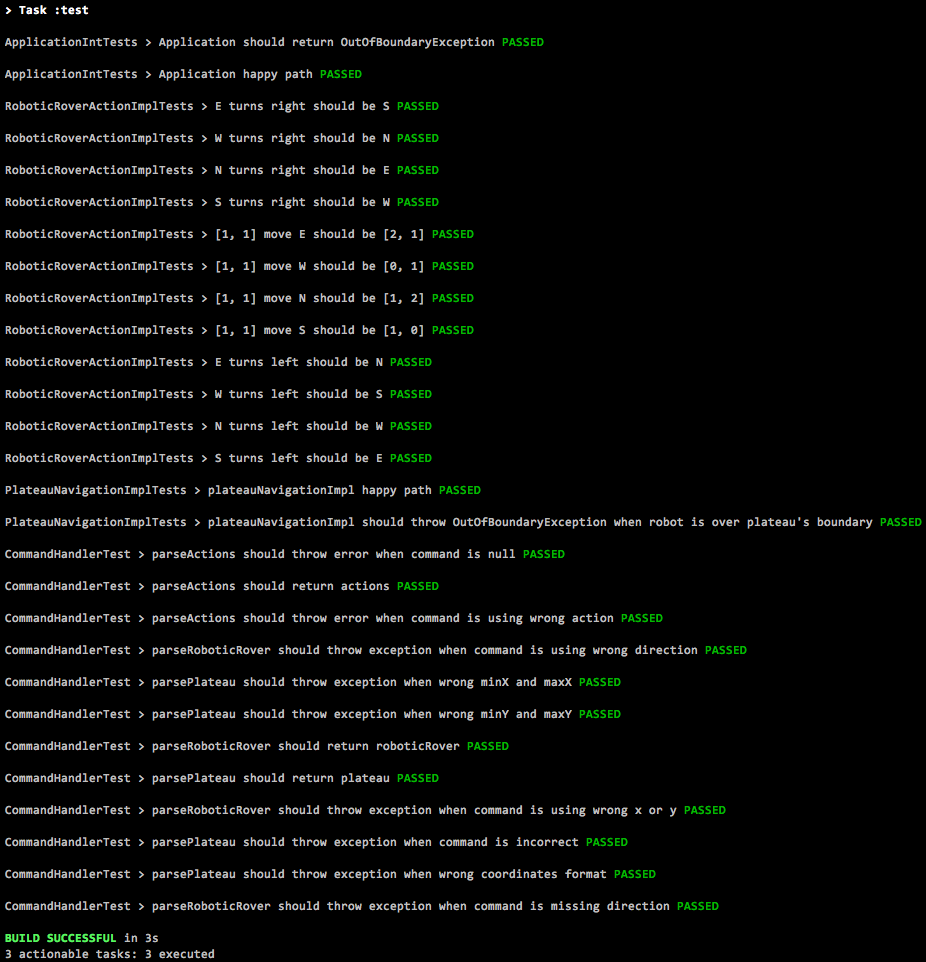
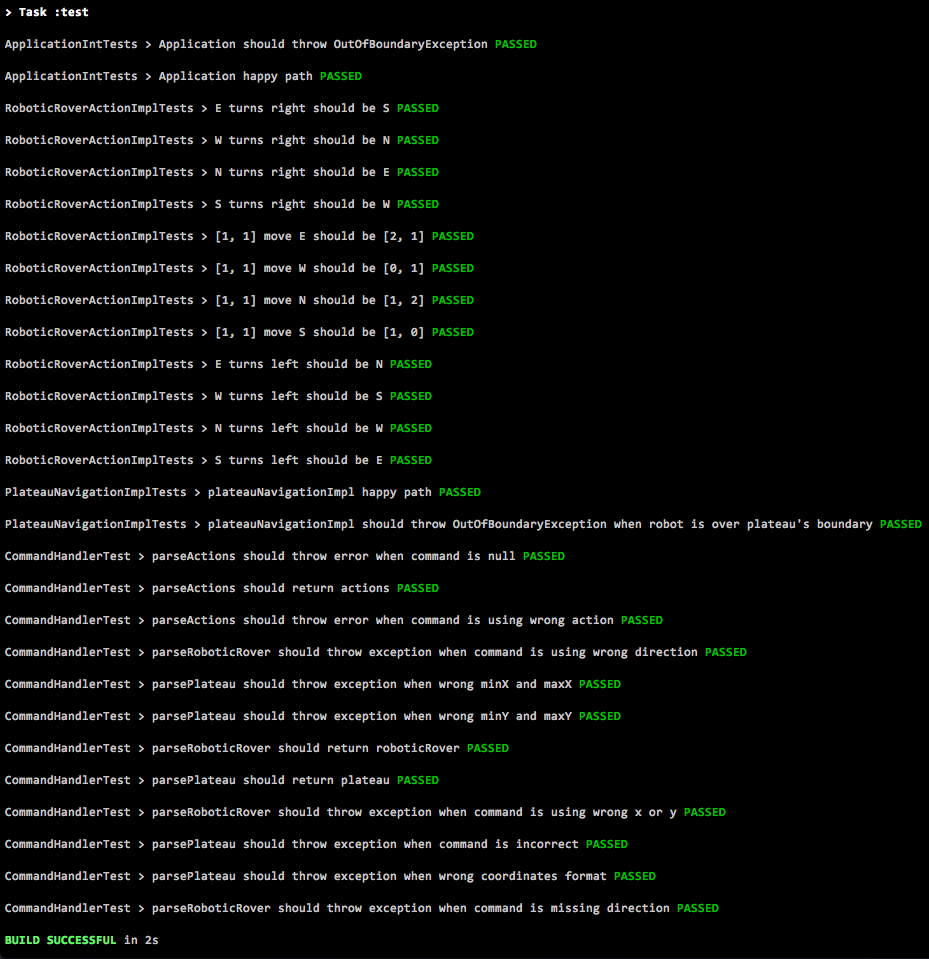
update text

Changed region(s): [[0.0, 0.0, 0.9978, 0.9979], [0.6652, 0.9979, 1.0, 1.0]]

diff --git a/src/test/java/com/snooper/ApplicationIntTests.java b/src/test/java/com/snooper/ApplicationIntTests.java
@@ -24,7 +24,7 @@ class ApplicationIntTests {
 	}
 
 	@Test
-	@DisplayName("Application should return OutOfBoundaryException")
+	@DisplayName("Application should throw OutOfBoundaryException")
 	void applicationShouldReturnOutOfBoundaryException() {
 		String result = application.roboticRoverNavigatePlateau(
 				"5 5\n"
